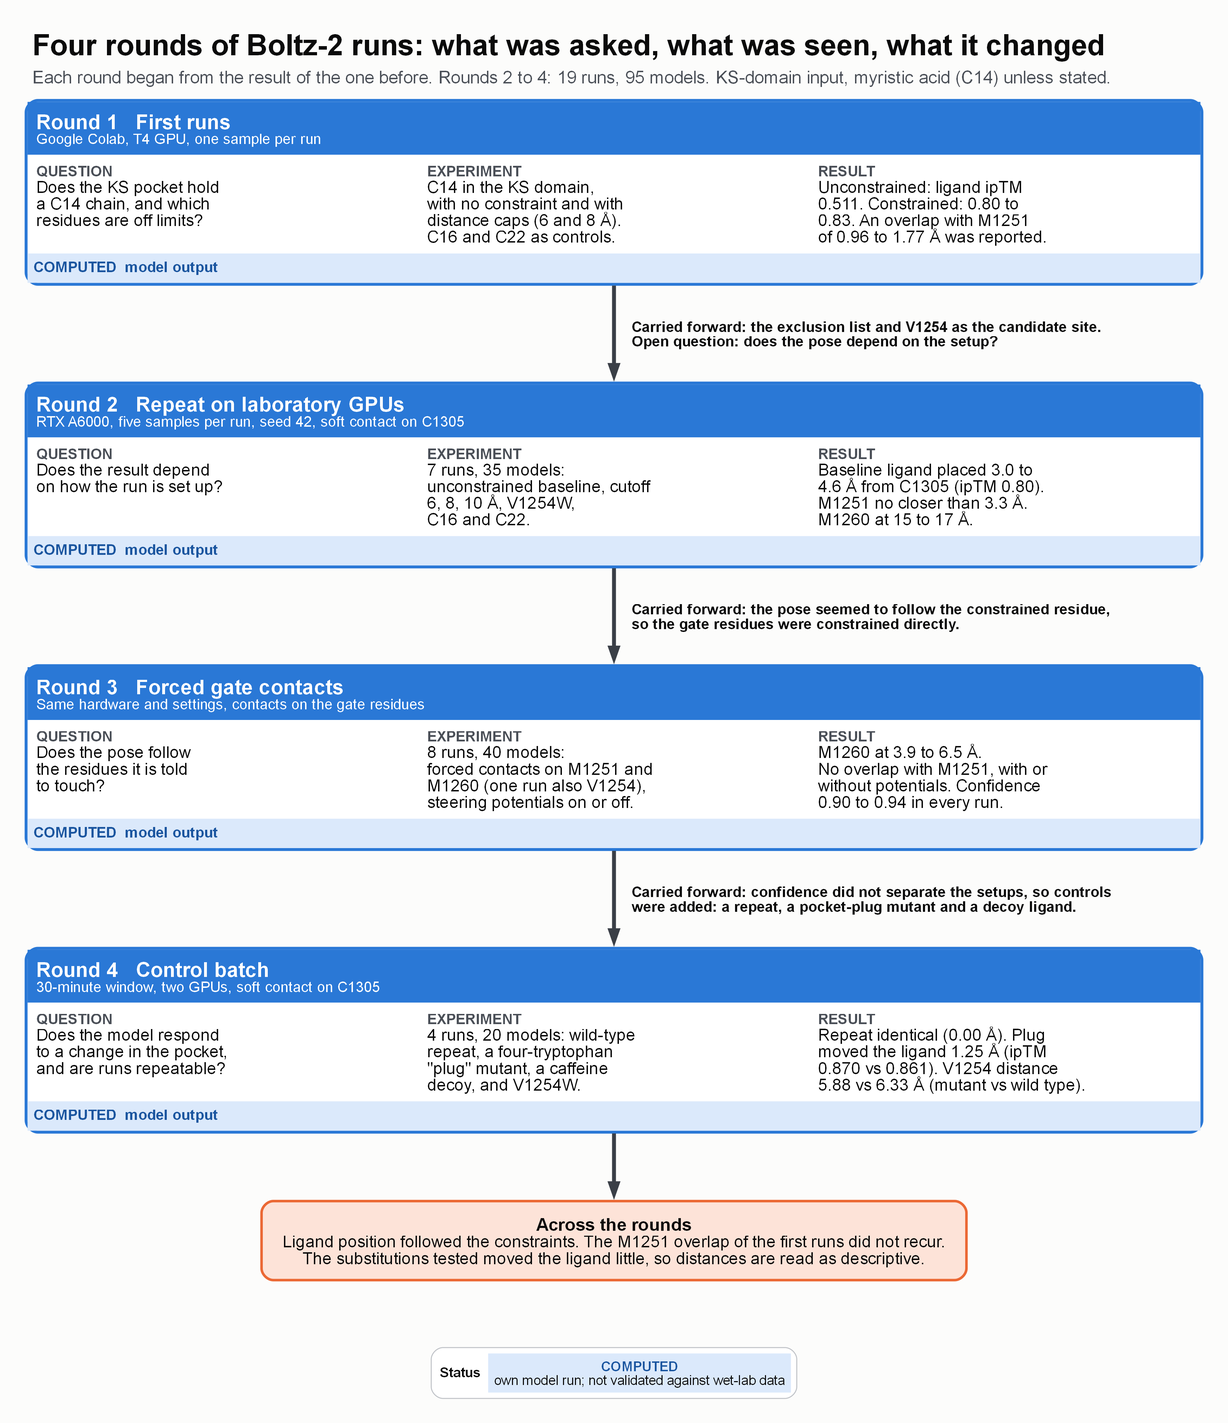
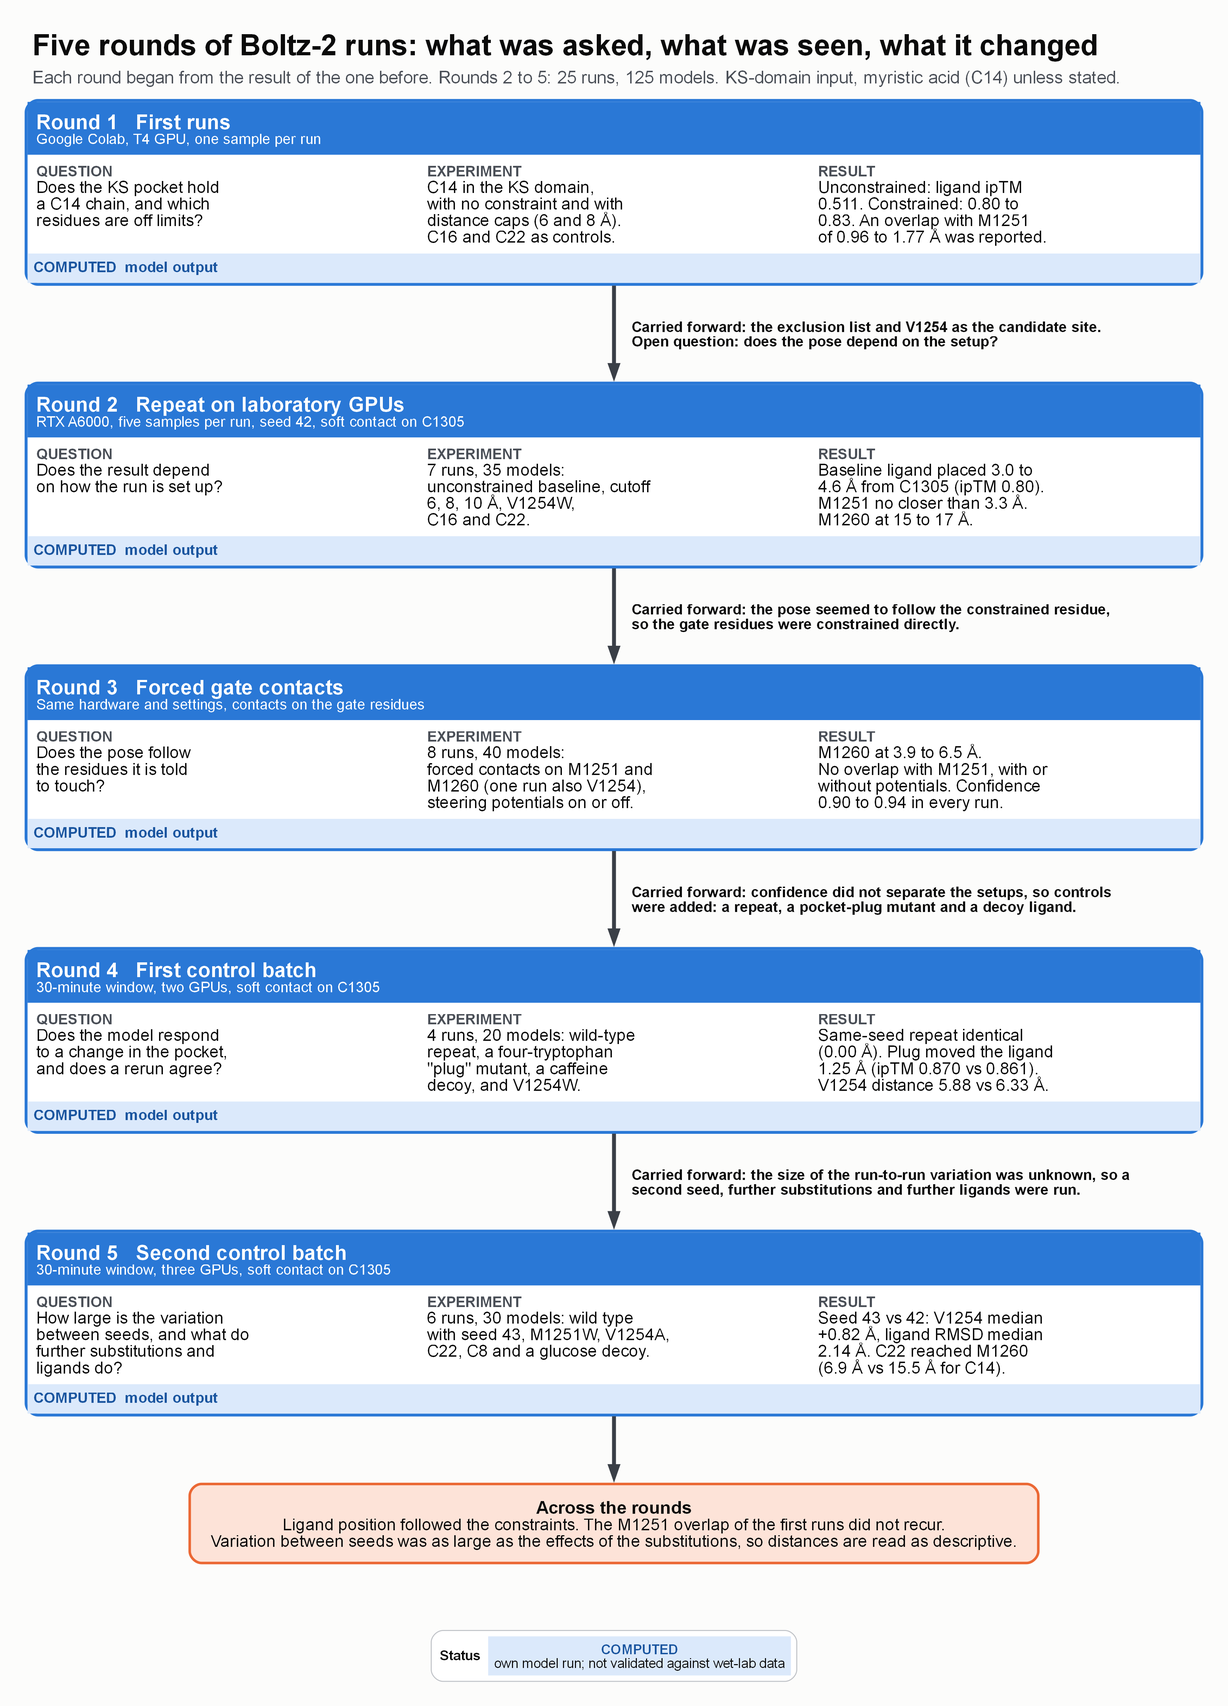
FAS interaction: add second control batch (seed variation, further substitutions and ligands), five-round flow figure, soften chain-length wording

diff --git a/docs/fas-interaction.md b/docs/fas-interaction.md
@@ -3,8 +3,8 @@ Part of the [model](model). Status labels: **[computed]** produced in this study
 </div>
 
 <figure class="figure my-4 key">
-  <img src="/static/figures/explainer_experiment_flow.png" class="figure-img img-fluid" alt="Flow chart of four rounds of Boltz-2 runs, from top to bottom. Round 1, first runs on Google Colab: unconstrained ligand ipTM 0.511, constrained 0.80 to 0.83, an M1251 overlap of 0.96 to 1.77 angstrom reported. Round 2, repeat on laboratory GPUs, 7 runs: baseline placed 3.0 to 4.6 angstrom from C1305, M1251 no closer than 3.3, M1260 at 15 to 17. Round 3, forced contacts on M1251 and M1260, 8 runs: M1260 at 3.9 to 6.5 angstrom, no overlap. Round 4, control batch, 4 runs: repeat identical, plug mutant moved the ligand 1.25 angstrom, V1254W 5.88 against 6.33 angstrom. Arrows between rounds state what was carried forward.">
-  <figcaption class="figure-caption"><strong>Figure A.</strong> Sequence of Boltz-2 experiments for the KS domain. Each round was designed from the result of the previous one; the text between rounds states what was carried forward. Rounds 2 to 4 comprised 19 runs (95 models). All values are model outputs <strong>[computed]</strong> and are not validated against wet-lab data. Details of each round follow below.</figcaption>
+  <img src="/static/figures/explainer_experiment_flow.png" class="figure-img img-fluid" alt="Flow chart of five rounds of Boltz-2 runs, from top to bottom. Round 1, first runs on Google Colab: unconstrained ligand ipTM 0.511, constrained 0.80 to 0.83, an M1251 overlap of 0.96 to 1.77 angstrom reported. Round 2, repeat on laboratory GPUs, 7 runs: baseline placed 3.0 to 4.6 angstrom from C1305, M1251 no closer than 3.3, M1260 at 15 to 17. Round 3, forced contacts on M1251 and M1260, 8 runs: M1260 at 3.9 to 6.5 angstrom, no overlap. Round 4, first control batch, 4 runs: same-seed repeat identical, plug mutant moved the ligand 1.25 angstrom, V1254W 5.88 against 6.33 angstrom. Round 5, second control batch, 6 runs: seed 43 against seed 42 changed the median V1254 distance by 0.82 angstrom and the ligand RMSD by a median 2.14 angstrom; C22 reached M1260 at 6.9 angstrom against 15.5 for C14. Arrows between rounds state what was carried forward.">
+  <figcaption class="figure-caption"><strong>Figure A.</strong> Sequence of Boltz-2 experiments for the KS domain. Each round was designed from the result of the previous one; the text between rounds states what was carried forward. Rounds 2 to 5 comprised 25 runs (125 models). All values are model outputs <strong>[computed]</strong> and are not validated against wet-lab data. Details of each round follow below.</figcaption>
 </figure>
 
 ## Step 2. Ligand placement in the ketoacyl synthase domain {#structure}
@@ -110,7 +110,7 @@ The first runs suggested that the fatty-acid chain collides with a residue calle
 <div class="brief" markdown="1">
 <div class="brief-h">In brief</div>
 
-The calculation was repeated 15 times on laboratory graphics processors in two rounds, giving 75 predicted structures. The ligand position changed with the constraints chosen, the earlier collision was not seen, and the confidence scores were uniformly high, so they could not separate the setups or chain lengths. **[computed]**
+The calculation was repeated 15 times on laboratory graphics processors in two rounds, giving 75 predicted structures. The ligand position changed with the constraints chosen, the earlier collision was not seen, and the confidence scores were uniformly high, so they could not separate the setups. **[computed]**
 </div>
 
 **[computed]** After the first runs, the experiment was repeated on three RTX A6000 GPUs with one setup throughout: the same 535-residue KS-domain input, Boltz-2 with five samples per run, seed 42, a fixed multiple-sequence alignment, and myristic acid (C14) unless stated. Two constraint designs were compared:
@@ -142,51 +142,59 @@ Three observations were made, with their limits:
 </figure>
 
 <figure class="figure my-4">
-  <img src="/static/figures/boltz_chain_length.png" class="figure-img img-fluid" alt="Two panels of distance from C14, C16 and C22 to M1251, V1254 and M1260. In both constraint designs the three ligands reach the same residues at similar distances.">
-  <figcaption class="figure-caption"><strong>Figure 3.</strong> Closest-atom distances for C14, C16 and C22 under the two constraint designs (five models per run). All three ligands reached the same residues, so this KS-only setup did not discriminate by chain length. Model-implied; not validated against wet-lab data.</figcaption>
+  <img src="/static/figures/boltz_chain_length.png" class="figure-img img-fluid" alt="Two panels of distance from C14, C16 and C22 to M1251, V1254 and M1260. With a soft contact on C1305, C22 and three of five C16 models lie about 7 angstrom from M1260 while C14 lies about 15 angstrom away. With forced contacts on M1251 and M1260, the three ligands lie at similar distances from all three residues.">
+  <figcaption class="figure-caption"><strong>Figure 3.</strong> Closest-atom distances for C14, C16 and C22 under the two constraint designs (five models per run). With the soft contact on C1305, the C22 chain and three of five C16 models came within about 7 Å of M1260, whereas C14 remained about 15 Å away; with forced contacts the three ligands reached the same residues. A longer chain spans further, so these distances do not by themselves indicate a preference of the pocket for chain length. Model-implied; not validated against wet-lab data.</figcaption>
 </figure>
 
-## Control batch: repeatability, pocket mutation and decoy ligand {#control-batch}
+## Control batches: repeatability, seed variation, pocket mutation and decoy ligands {#control-batch}
 
 <div class="brief" markdown="1">
 <div class="brief-h">In brief</div>
 
-Four further runs tested whether the model gave repeatable results and whether it responded to a change in the pocket. A repeated run was identical to the original, substitutions in the pocket moved the ligand little, and a decoy ligand was not clearly separated from myristic acid by the confidence scores. **[computed]**
+Ten further runs tested whether the model gave repeatable results, how much the result varied with the random seed, and whether it responded to changes in the pocket or in the ligand. Repeating a run with the same seed gave an identical result, but a different seed moved the ligand by as much as the amino-acid substitutions did, and decoy ligands were not separated by the confidence scores. **[computed]**
 </div>
 
-**[computed]** A fourth round of four runs (20 models) was performed under the settings of the second round (soft contact on C1305 at 8 Å, five samples, seed 42) with the binding-probability output of Boltz-2 enabled (Table 5). The runs were: a repeat of the wild-type C14 run (repeatability); a variant carrying four tryptophan substitutions in the pocket (M1251W, A1304W, A1348W and A1548W; sensitivity to pocket mutation); caffeine in place of myristic acid (decoy ligand); and V1254W. Expected outcomes and thresholds were recorded and hashed before the runs; the thresholds were provisional, and the results are therefore reported as measurements and not as pass or fail verdicts.
+**[computed]** Two control batches of 30 minutes each were performed under the settings of the second round (soft contact on C1305 at 8 Å, five samples) with the binding-probability output of Boltz-2 enabled (Table 5). The first batch (four runs, 20 models) comprised a repeat of the wild-type C14 run (repeatability), a variant carrying four tryptophan substitutions in the pocket (M1251W, A1304W, A1348W and A1548W; sensitivity to pocket mutation), caffeine in place of myristic acid (decoy ligand), and V1254W. The second batch (six runs, 30 models) comprised the wild-type run with a different random seed (43 instead of 42; seed variation), M1251W, V1254A, C22 and C8 acids, and glucose (second decoy). Expected outcomes and thresholds were recorded and hashed before each batch; the thresholds were provisional, and the results are therefore reported as measurements and not as pass or fail verdicts.
 
 <div class="key" markdown="1">
 
-*Table 5. Control batch (medians of five models per run). Distances are closest-atom distances in Å. Displacement is the distance between ligand centroids after superposition of the protein on the stored wild-type model. The binding probability is the binary output of the Boltz-2 affinity module (one value per run). Model-implied; not validated against wet-lab data.*
+*Table 5. Control batches (medians of five models per run; seed 42 unless stated). Distances are closest-atom distances in Å. Displacement is the distance between ligand centroids after superposition of the protein on the stored wild-type model (C14 runs only). The binding probability is the binary output of the Boltz-2 affinity module (one value per run). Model-implied; not validated against wet-lab data.*
 
 | Run | Ligand ipTM | M1251 | V1254 | M1260 | C1305 | Displacement (Å) | Binding probability |
 |---|---|---|---|---|---|---|---|
-| Wild type, C14 (repeat) | 0.861 | 3.53 | 6.33 | 15.46 | 3.16 | 1.32 | 0.270 |
+| Wild type, C14 | 0.861 | 3.53 | 6.33 | 15.46 | 3.16 | 1.32 | 0.270 |
+| Wild type, C14, seed 43 | 0.862 | 3.76 | 7.15 | 16.00 | 3.22 | 3.42 | 0.274 |
 | Plug mutant, C14 | 0.870 | 3.30 | 6.79 | 15.18 | 3.55 | 1.25 | 0.297 |
+| M1251W, C14 | 0.863 | 4.16 | 8.29 | 16.67 | 2.99 | 2.95 | 0.252 |
+| V1254A, C14 | 0.873 | 3.93 | 8.25 | 15.59 | 3.15 | 2.11 | 0.279 |
 | V1254W, C14 | 0.847 | 4.15 | 5.88 | 15.99 | 3.00 | 2.30 | 0.290 |
-| Wild type, caffeine | 0.894 | 9.14 | 14.01 | 21.96 | 3.19 | 4.05 | 0.211 |
+| Wild type, C22 | 0.855 | 3.64 | 4.07 | 6.92 | 2.96 | – | 0.251 |
+| Wild type, C8 | 0.889 | 9.65 | 13.99 | 22.51 | 3.19 | – | 0.275 |
+| Wild type, caffeine | 0.894 | 9.14 | 14.01 | 21.96 | 3.19 | – | 0.211 |
+| Wild type, glucose | 0.909 | 8.38 | 12.72 | 21.77 | 2.79 | – | 0.202 |
 
 </div>
 
-Four observations were made:
+Six observations were made:
 
-- **The repeat was identical.** For all five matched models, the ligand RMSD to the stored wild-type model was 0.00 Å and all distances were unchanged, so the stored numbers are a valid baseline for this setup.
-- **The plug mutant moved the ligand little.** The ligand centroid was displaced by 1.25 Å (ligand RMSD 2.00 Å) and the ligand ipTM did not decrease (0.870 against 0.861). For comparison, the five wild-type models differed from the first model by a median ligand RMSD of 2.55 Å, so the spread within one run was larger than the effect of the four substitutions.
-- **V1254W changed the median distance by 0.45 Å.** The median distance to residue 1254 was 5.88 Å against 6.33 Å for wild type. Three of the five V1254W models placed the ligand 4.1–5.9 Å from residue 1254; two placed it about 10 Å from M1251 and V1254, in a different location, so the median does not describe a typical model.
-- **The decoy was not clearly separated.** The five caffeine models lay 9, 14 and 22 Å from M1251, V1254 and M1260 while remaining 3.2 Å from C1305 (the restrained contact). The binding probability was 0.211 against 0.270 for C14, and the ligand ipTM was higher for caffeine (0.894) than for C14 (0.861), so the confidence scores did not distinguish the decoy.
+- **A repeat with the same seed was identical.** For all five matched models, the ligand RMSD to the stored wild-type model was 0.00 Å and all distances were unchanged, so the stored numbers are a valid baseline for this setup.
+- **A different seed changed the pose.** With seed 43 in place of 42 and otherwise identical inputs, the median distances differed by 0.06–0.82 Å (V1254, +0.82 Å); the ligand RMSD between matched models had a median of 2.14 Å (range 1.46–12.34 Å); and the displacement from the stored model was 3.42 Å against 1.32 Å. Overall confidence (+0.004), ligand ipTM (+0.001) and the distance to C1305 (+0.06 Å) were stable.
+- **The substitutions moved the ligand no more than the seed did.** The displacement was 1.25 Å for the plug mutant, 2.11 Å for V1254A, 2.30 Å for V1254W and 2.95 Å for M1251W, against 3.42 Å between two seeds of the wild type. The median distance to residue 1254 was 5.88 Å for V1254W and 8.25 Å for V1254A, against 6.33 Å and 7.15 Å for the wild type with seeds 42 and 43; the V1254W difference (−0.45 Å) is smaller than the seed difference (+0.82 Å). Within single runs, two of the five V1254W models and some models of V1254A and M1251W placed the ligand 8–10 Å from V1254, so the medians do not describe a typical model.
+- **Chain length changed how far the ligand reached.** The C22 chain lay 6.9 Å from M1260, against 15.5–16.0 Å for C14 with either seed, as expected for a longer chain; C8 lay 22.5 Å from M1260. The predicted affinity values fell with chain length (C8, 2.12; C14, 1.53; C22, 1.41) but the two ensemble members of each run overlapped, and the binding probability was nearly flat (0.251–0.275), so the values are not interpreted as selectivity.
+- **Decoy ligands were not separated.** The caffeine, glucose and C8 models lay 8–11 Å from M1251 while satisfying the restrained contact with C1305 (2.8–3.2 Å). The binding probability was 0.211 for caffeine and 0.202 for glucose against 0.270 for C14, and the ligand ipTM was higher for both (0.894 and 0.909) than for C14 (0.861), so the confidence scores did not distinguish the decoys from myristic acid.
+- **No model contained an atom pair closer than 2 Å.** This held for all runs of both batches.
 
-Under this setup Boltz-2 therefore showed little response to the substitutions tested, and differences of about 1 Å between wild-type and mutant models are not interpreted. The V1254W result is reported as a description of the models and does not support or refute the proposed effect of the substitution. The low response may reflect the contact restraint on C1305 or the unchanged alignment as well as the model itself; these factors were not separated. The binding-probability values are Boltz-2 scores and not binding constants.
+Under this setup the pose of the ligand varied between seeds by about as much as the substitutions tested, and differences of 1–2 Å between wild-type and mutant models are therefore not interpreted. The V1254W and V1254A results are reported as descriptions of the models and do not support or refute the proposed effect of the substitution. The weak response may reflect the contact restraint on C1305 or the unchanged alignment as well as the model itself; these factors were not separated. The binding-probability and affinity values are Boltz-2 scores and not binding constants.
 
 ## Chain-length controls {#controls}
 
 <div class="brief" markdown="1">
 <div class="brief-h">In brief</div>
 
-Longer and shorter fatty acids were modelled as controls. If the pocket preferred one chain length, they should have behaved differently; they did not, so these runs do not show that the pocket distinguishes chain length. **[computed]**
+Longer and shorter fatty acids were modelled as controls. A longer chain reached further into the pocket, as geometry predicts, but the distances do not show that the pocket prefers one chain length. **[computed]**
 </div>
 
-C16 and C22 runs were included as controls: if the pocket discriminated on chain length, the ligands would be expected to behave differently within it. A preliminary team comparison reported C14 at about 6 Å from the two target residues, whereas the C16 distances were non-uniform (about 5 Å and 8 Å). In the reruns, C14, C16 and C22 reached the same residues at similar distances (Figure 3), so these controls do not show chain-length discrimination in a KS-only setup. The unconstrained baseline also located the pocket and therefore does not serve as a negative control; a decoy ligand (caffeine), a repeat of the wild-type run and a pocket-plug variant were used instead (previous section).
+C8, C16 and C22 runs were included as controls: if the pocket discriminated on chain length, the ligands would be expected to behave differently within it. A preliminary team comparison reported C14 at about 6 Å from the two target residues, whereas the C16 distances were non-uniform (about 5 Å and 8 Å). In the reruns with a soft contact on C1305, the C22 chain (and three of five C16 models) came within about 7 Å of M1260, whereas C14 remained about 15 Å away; with forced contacts the three ligands reached the same residues (Figure 3). A longer chain spans further, so these distances do not by themselves indicate a preference of the pocket for chain length. The unconstrained baseline also located the pocket and therefore does not serve as a negative control; a decoy ligand (caffeine and glucose), a repeat of the wild-type run, a second seed and a pocket-plug variant were used instead (previous section).
 
 ## Limitations of this step {#limits-of-this-step}
 
@@ -197,7 +205,7 @@ The results rest on one random seed per condition, on constraints that influence
 </div>
 
 - No formal proximity criterion was defined. The cutoff was varied (6, 8 and 10 Å) and the spread across five models is reported, but no threshold was adopted.
-- Five samples drawn with one seed are not independent replicates. The spread across the five models describes the variability of the sampling, not run-to-run variability.
+- Five samples drawn with one seed are not independent replicates. The spread across the five models describes the variability of the sampling; run-to-run variability was measured by one additional seed of the wild-type C14 condition only (Table 5).
 - The pose depended on the constraint design (Figure B); distances measured to residues that were themselves constrained partly reflect the constraint.
 - Free myristic acid was modelled in place of the covalent acyl-enzyme intermediate (assumption A3 on the model overview).
 - The binding-probability and affinity outputs of Boltz-2 are model-derived scores, not binding constants.
@@ -217,7 +225,7 @@ The software, inputs, commands and measurements needed to repeat the runs and re
 
 **Software and hardware.** Rounds 2 to 4 were run with Boltz-2[@passaro2025] (Python package `boltz` 2.2.1 with the Boltz-2 weights) on Linux with NVIDIA RTX A6000 GPUs (48 GB), one GPU per run. Round 1 used Google Colab with a T4 GPU. A run with five samples took about 7 min on an idle GPU and 13–15 min on a heavily shared one. The output of one run (structures and confidence files) occupied about 13 MB.
 
-**Input.** The protein was residues 1123–1657 of *S. cerevisiae* FAS2 (UniProt P19097; 535 residues). Residue indices in the inputs are local: UniProt number minus 1122, so that M1251, V1254, M1260 and C1305 are residues 129, 132, 138 and 183. The ligand was given as a SMILES string (myristic acid, `CCCCCCCCCCCCCC(=O)O`; C16 and C22 by extending the chain; caffeine for the decoy). Variants were made by substituting the residue in the input sequence: V1254W at residue 132, and the plug mutant at residues 129, 182, 226 and 426 (M1251W, A1304W, A1348W, A1548W). The constraint designs were a soft contact on C1305 (`contacts: [[A, 183]]`, `max_distance: 8.0`; 6 or 10 in the sweep) and forced contacts on M1251 and M1260 (`contacts: [[A, 129], [A, 138]]`, with residue 132 added in one run, and `force: true`). The binding-probability output was requested with a `properties` block.
+**Input.** The protein was residues 1123–1657 of *S. cerevisiae* FAS2 (UniProt P19097; 535 residues). Residue indices in the inputs are local: UniProt number minus 1122, so that M1251, V1254, M1260 and C1305 are residues 129, 132, 138 and 183. The ligand was given as a SMILES string (myristic acid, `CCCCCCCCCCCCCC(=O)O`; C8 `CCCCCCCC(=O)O`; C16 and C22 by extending the chain; the decoys caffeine `Cn1cnc2c1c(=O)n(C)c(=O)n2C` and glucose `OC[C@H]1OC(O)[C@H](O)[C@@H](O)[C@@H]1O`). Variants were made by substituting the residue in the input sequence: V1254W and V1254A at residue 132, M1251W at residue 129, and the plug mutant at residues 129, 182, 226 and 426 (M1251W, A1304W, A1348W, A1548W). The constraint designs were a soft contact on C1305 (`contacts: [[A, 183]]`, `max_distance: 8.0`; 6 or 10 in the sweep) and forced contacts on M1251 and M1260 (`contacts: [[A, 129], [A, 138]]`, with residue 132 added in one run, and `force: true`). The binding-probability output was requested with a `properties` block.
 
 ```yaml
 version: 1
@@ -249,11 +257,11 @@ boltz predict inputs/<run>.yaml --cache <cache_dir> --out_dir runs/<run> \
   --sampling_steps 200 --use_potentials --output_format mmcif --seed 42 --override
 ```
 
-Round 2 additionally used `--use_msa_server`; the comparison without steering potentials in round 3 omitted `--use_potentials`.
+Round 2 additionally used `--use_msa_server`; the comparison without steering potentials in round 3 omitted `--use_potentials`; the seed-variation run used `--seed 43`. The runs of rounds 4 and 5 included the `properties` block shown above. Up to three runs were executed concurrently, one per GPU; a run took 8–9 min on an otherwise idle GPU.
 
 **Measurements.** For each of the five models of a run, the closest heavy-atom distance between the ligand and each residue of interest (local residues 129, 132, 138 and 183) and the closest ligand–protein atom pair were computed from the structure file. Overall confidence (`confidence_score`), ligand ipTM (`ligand_iptm`) and complex ipLDDT (`complex_iplddt`) were read from the `confidence_*.json` files. Ligand displacement was the distance between the centroids of the ligand heavy atoms after superposing the protein Cα atoms on the reference model. Medians over the five models are reported unless stated.
 
-**Expected agreement.** With the same seed, alignment, settings and software on the same server, a rerun reproduced the stored wild-type models exactly (matched-model ligand RMSD 0.00 Å).
+**Expected agreement.** With the same seed, alignment, settings and software on the same server, a rerun reproduced the stored wild-type models exactly (matched-model ligand RMSD 0.00 Å). A different seed did not reproduce the poses (median matched-model ligand RMSD 2.14 Å), so comparisons between runs require the same seed or a distribution over several seeds.
 
 ---
 
